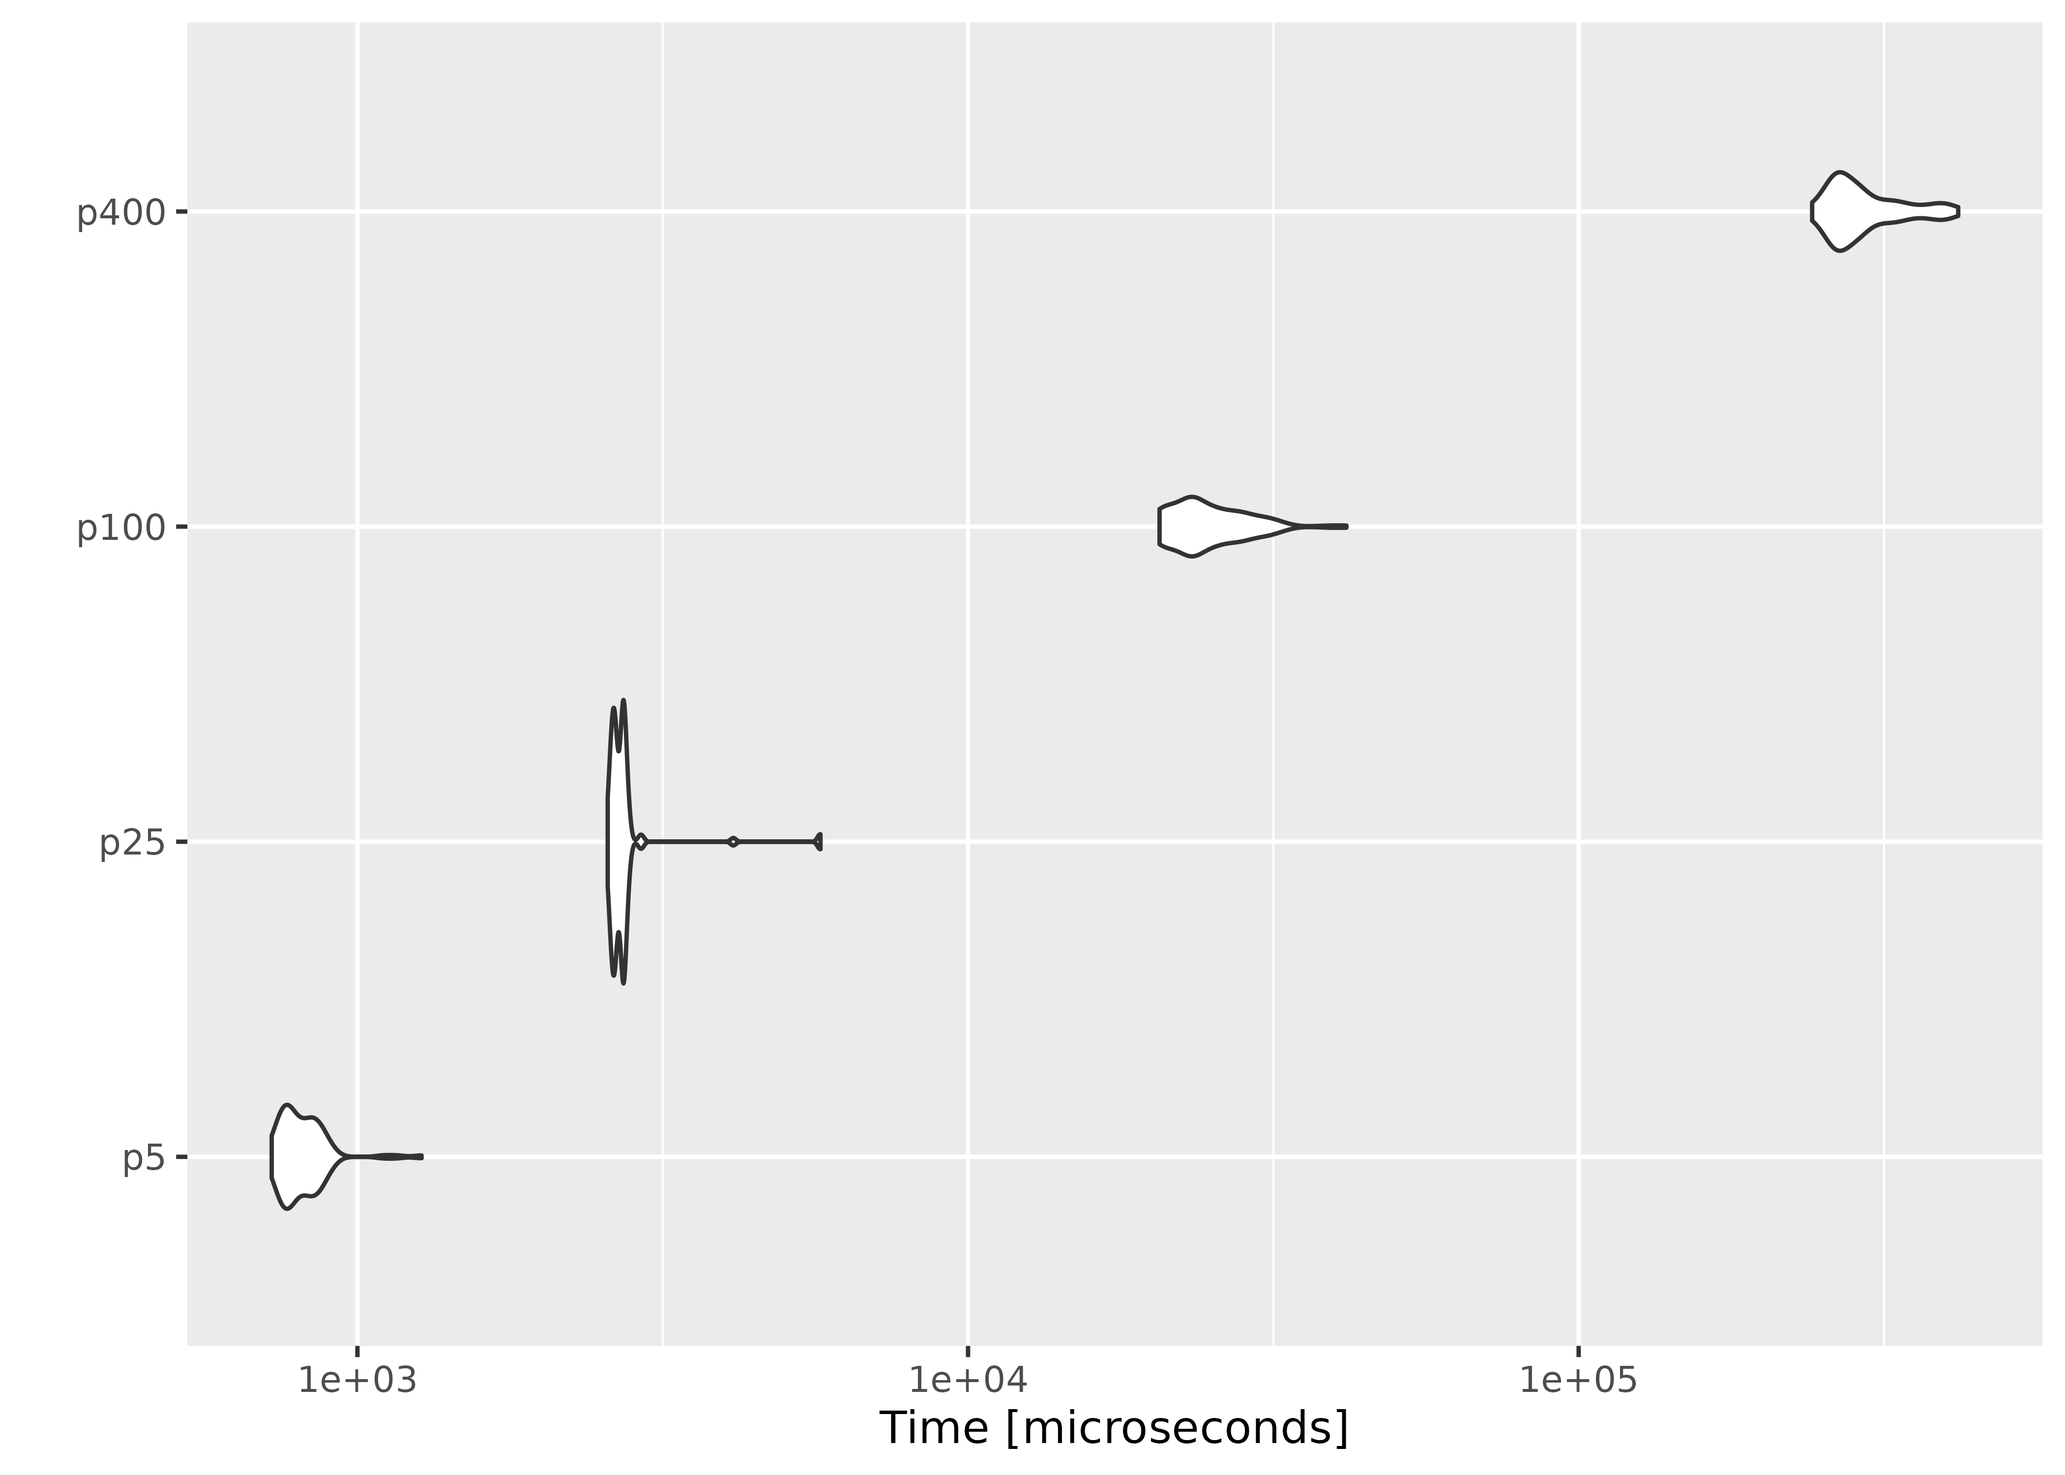
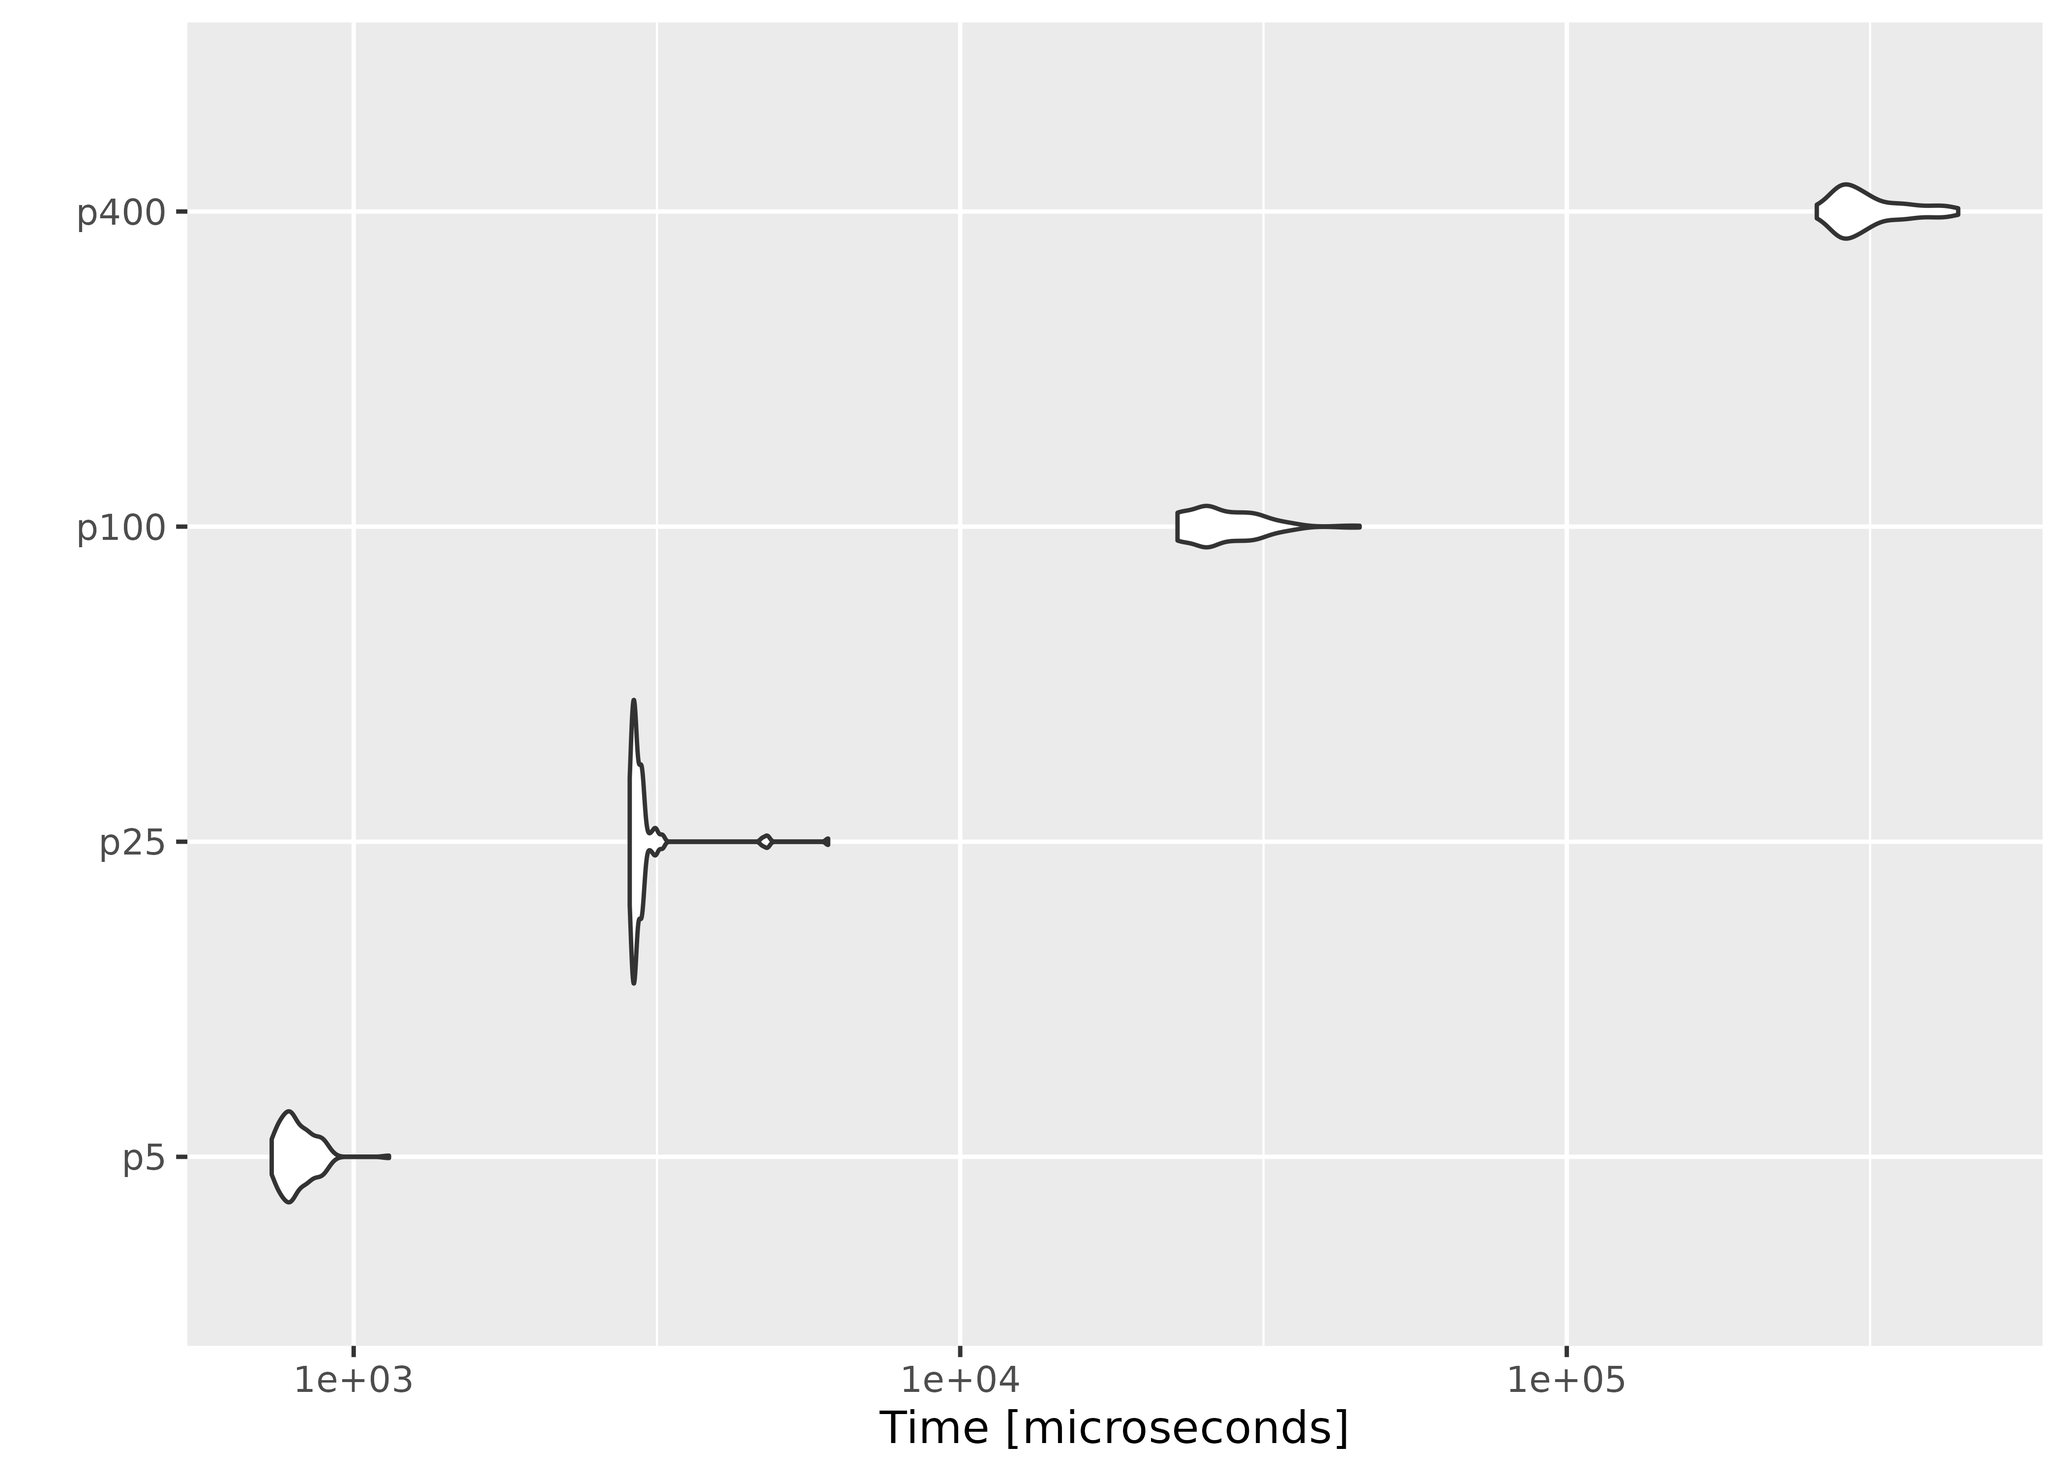
Deploying to gh-pages from @ ropensci/melt@3679fe2ed3c8fad9d4f7b4d7309542c7582e4cd7 🚀

diff --git a/LICENSE.html b/LICENSE.html
@@ -124,35 +124,35 @@
 <h3 id="how-to-apply-these-terms-to-your-new-programs">How to Apply These Terms to Your New Programs<a class="anchor" aria-label="anchor" href="#how-to-apply-these-terms-to-your-new-programs"></a></h3>
 <p>If you develop a new program, and you want it to be of the greatest possible use to the public, the best way to achieve this is to make it free software which everyone can redistribute and change under these terms.</p>
 <p>To do so, attach the following notices to the program. It is safest to attach them to the start of each source file to most effectively convey the exclusion of warranty; and each file should have at least the “copyright” line and a pointer to where the full notice is found.</p>
-<div class="sourceCode" id="cb1"><pre class="sourceCode R"><code class="sourceCode r"><span id="cb1-1"><a href="#cb1-1" aria-hidden="true" tabindex="-1"></a><span class="sc">&lt;</span>one line to give the program<span class="st">'s name and a brief idea of what it does.&gt;</span></span>
-<span id="cb1-2"><a href="#cb1-2" aria-hidden="true" tabindex="-1"></a><span class="st">Copyright (C) &lt;year&gt;  &lt;name of author&gt;</span></span>
-<span id="cb1-3"><a href="#cb1-3" aria-hidden="true" tabindex="-1"></a></span>
-<span id="cb1-4"><a href="#cb1-4" aria-hidden="true" tabindex="-1"></a><span class="st">This program is free software; you can redistribute it and/or modify</span></span>
-<span id="cb1-5"><a href="#cb1-5" aria-hidden="true" tabindex="-1"></a><span class="st">it under the terms of the GNU General Public License as published by</span></span>
-<span id="cb1-6"><a href="#cb1-6" aria-hidden="true" tabindex="-1"></a><span class="st">the Free Software Foundation; either version 2 of the License, or</span></span>
-<span id="cb1-7"><a href="#cb1-7" aria-hidden="true" tabindex="-1"></a><span class="st">(at your option) any later version.</span></span>
-<span id="cb1-8"><a href="#cb1-8" aria-hidden="true" tabindex="-1"></a></span>
-<span id="cb1-9"><a href="#cb1-9" aria-hidden="true" tabindex="-1"></a><span class="st">This program is distributed in the hope that it will be useful,</span></span>
-<span id="cb1-10"><a href="#cb1-10" aria-hidden="true" tabindex="-1"></a><span class="st">but WITHOUT ANY WARRANTY; without even the implied warranty of</span></span>
-<span id="cb1-11"><a href="#cb1-11" aria-hidden="true" tabindex="-1"></a><span class="st">MERCHANTABILITY or FITNESS FOR A PARTICULAR PURPOSE.  See the</span></span>
-<span id="cb1-12"><a href="#cb1-12" aria-hidden="true" tabindex="-1"></a><span class="st">GNU General Public License for more details.</span></span>
-<span id="cb1-13"><a href="#cb1-13" aria-hidden="true" tabindex="-1"></a></span>
-<span id="cb1-14"><a href="#cb1-14" aria-hidden="true" tabindex="-1"></a><span class="st">You should have received a copy of the GNU General Public License along</span></span>
-<span id="cb1-15"><a href="#cb1-15" aria-hidden="true" tabindex="-1"></a><span class="st">with this program; if not, write to the Free Software Foundation, Inc.,</span></span>
-<span id="cb1-16"><a href="#cb1-16" aria-hidden="true" tabindex="-1"></a><span class="st">51 Franklin Street, Fifth Floor, Boston, MA 02110-1301 USA.</span></span></code></pre></div>
+<div class="sourceCode" id="cb1"><pre class="sourceCode R"><code class="sourceCode r"><span id="cb1-1"><a href="#cb1-1" tabindex="-1"></a><span class="sc">&lt;</span>one line to give the program<span class="st">'s name and a brief idea of what it does.&gt;</span></span>
+<span id="cb1-2"><a href="#cb1-2" tabindex="-1"></a><span class="st">Copyright (C) &lt;year&gt;  &lt;name of author&gt;</span></span>
+<span id="cb1-3"><a href="#cb1-3" tabindex="-1"></a></span>
+<span id="cb1-4"><a href="#cb1-4" tabindex="-1"></a><span class="st">This program is free software; you can redistribute it and/or modify</span></span>
+<span id="cb1-5"><a href="#cb1-5" tabindex="-1"></a><span class="st">it under the terms of the GNU General Public License as published by</span></span>
+<span id="cb1-6"><a href="#cb1-6" tabindex="-1"></a><span class="st">the Free Software Foundation; either version 2 of the License, or</span></span>
+<span id="cb1-7"><a href="#cb1-7" tabindex="-1"></a><span class="st">(at your option) any later version.</span></span>
+<span id="cb1-8"><a href="#cb1-8" tabindex="-1"></a></span>
+<span id="cb1-9"><a href="#cb1-9" tabindex="-1"></a><span class="st">This program is distributed in the hope that it will be useful,</span></span>
+<span id="cb1-10"><a href="#cb1-10" tabindex="-1"></a><span class="st">but WITHOUT ANY WARRANTY; without even the implied warranty of</span></span>
+<span id="cb1-11"><a href="#cb1-11" tabindex="-1"></a><span class="st">MERCHANTABILITY or FITNESS FOR A PARTICULAR PURPOSE.  See the</span></span>
+<span id="cb1-12"><a href="#cb1-12" tabindex="-1"></a><span class="st">GNU General Public License for more details.</span></span>
+<span id="cb1-13"><a href="#cb1-13" tabindex="-1"></a></span>
+<span id="cb1-14"><a href="#cb1-14" tabindex="-1"></a><span class="st">You should have received a copy of the GNU General Public License along</span></span>
+<span id="cb1-15"><a href="#cb1-15" tabindex="-1"></a><span class="st">with this program; if not, write to the Free Software Foundation, Inc.,</span></span>
+<span id="cb1-16"><a href="#cb1-16" tabindex="-1"></a><span class="st">51 Franklin Street, Fifth Floor, Boston, MA 02110-1301 USA.</span></span></code></pre></div>
 <p>Also add information on how to contact you by electronic and paper mail.</p>
 <p>If the program is interactive, make it output a short notice like this when it starts in an interactive mode:</p>
-<div class="sourceCode" id="cb2"><pre class="sourceCode R"><code class="sourceCode r"><span id="cb2-1"><a href="#cb2-1" aria-hidden="true" tabindex="-1"></a>Gnomovision version <span class="dv">69</span>, <span class="fu">Copyright</span> (C) year name of author</span>
-<span id="cb2-2"><a href="#cb2-2" aria-hidden="true" tabindex="-1"></a>Gnomovision comes with ABSOLUTELY NO WARRANTY; <span class="cf">for</span> details type <span class="st">`</span><span class="at">show w'.</span></span>
-<span id="cb2-3"><a href="#cb2-3" aria-hidden="true" tabindex="-1"></a><span class="at">This is free software, and you are welcome to redistribute it</span></span>
-<span id="cb2-4"><a href="#cb2-4" aria-hidden="true" tabindex="-1"></a><span class="at">under certain conditions; type </span><span class="st">`</span>show c<span class="st">' for details.</span></span></code></pre></div>
+<div class="sourceCode" id="cb2"><pre class="sourceCode R"><code class="sourceCode r"><span id="cb2-1"><a href="#cb2-1" tabindex="-1"></a>Gnomovision version <span class="dv">69</span>, <span class="fu">Copyright</span> (C) year name of author</span>
+<span id="cb2-2"><a href="#cb2-2" tabindex="-1"></a>Gnomovision comes with ABSOLUTELY NO WARRANTY; <span class="cf">for</span> details type <span class="st">`</span><span class="at">show w'.</span></span>
+<span id="cb2-3"><a href="#cb2-3" tabindex="-1"></a><span class="at">This is free software, and you are welcome to redistribute it</span></span>
+<span id="cb2-4"><a href="#cb2-4" tabindex="-1"></a><span class="at">under certain conditions; type </span><span class="st">`</span>show c<span class="st">' for details.</span></span></code></pre></div>
 <p>The hypothetical commands <code>show w</code> and <code>show c</code> should show the appropriate parts of the General Public License. Of course, the commands you use may be called something other than <code>show w</code> and <code>show c</code>; they could even be mouse-clicks or menu items–whatever suits your program.</p>
 <p>You should also get your employer (if you work as a programmer) or your school, if any, to sign a “copyright disclaimer” for the program, if necessary. Here is a sample; alter the names:</p>
-<div class="sourceCode" id="cb3"><pre class="sourceCode R"><code class="sourceCode r"><span id="cb3-1"><a href="#cb3-1" aria-hidden="true" tabindex="-1"></a>Yoyodyne, Inc., hereby disclaims all copyright interest <span class="cf">in</span> the program</span>
-<span id="cb3-2"><a href="#cb3-2" aria-hidden="true" tabindex="-1"></a><span class="st">`</span><span class="at">Gnomovision' (which makes passes at compilers) written by James Hacker.</span></span>
-<span id="cb3-3"><a href="#cb3-3" aria-hidden="true" tabindex="-1"></a></span>
-<span id="cb3-4"><a href="#cb3-4" aria-hidden="true" tabindex="-1"></a><span class="at">&lt;signature of Ty Coon&gt;, 1 April 1989</span></span>
-<span id="cb3-5"><a href="#cb3-5" aria-hidden="true" tabindex="-1"></a><span class="at">Ty Coon, President of Vice</span></span></code></pre></div>
+<div class="sourceCode" id="cb3"><pre class="sourceCode R"><code class="sourceCode r"><span id="cb3-1"><a href="#cb3-1" tabindex="-1"></a>Yoyodyne, Inc., hereby disclaims all copyright interest <span class="cf">in</span> the program</span>
+<span id="cb3-2"><a href="#cb3-2" tabindex="-1"></a><span class="st">`</span><span class="at">Gnomovision' (which makes passes at compilers) written by James Hacker.</span></span>
+<span id="cb3-3"><a href="#cb3-3" tabindex="-1"></a></span>
+<span id="cb3-4"><a href="#cb3-4" tabindex="-1"></a><span class="at">&lt;signature of Ty Coon&gt;, 1 April 1989</span></span>
+<span id="cb3-5"><a href="#cb3-5" tabindex="-1"></a><span class="at">Ty Coon, President of Vice</span></span></code></pre></div>
 <p>This General Public License does not permit incorporating your program into proprietary programs. If your program is a subroutine library, you may consider it more useful to permit linking proprietary applications with the library. If this is what you want to do, use the GNU Lesser General Public License instead of this License.</p>
 </div>
 </div>

diff --git a/articles/performance.html b/articles/performance.html
@@ -138,11 +138,11 @@ parameters increases with the number of observations fixed.</p>
 <div class="sourceCode" id="cb2"><pre class="downlit sourceCode r">
 <code class="sourceCode R"><span><span class="va">result</span></span>
 <span><span class="co">#&gt; Unit: microseconds</span></span>
-<span><span class="co">#&gt;  expr        min          lq        mean     median         uq        max neval</span></span>
-<span><span class="co">#&gt;  n1e2    451.451    481.5075    519.7536    514.204    555.866    639.041   100</span></span>
-<span><span class="co">#&gt;  n1e3   1130.717   1301.1800   1407.8095   1373.059   1485.733   2589.526   100</span></span>
-<span><span class="co">#&gt;  n1e4  10047.755  11511.6785  13368.3371  13924.691  14683.274  18727.542   100</span></span>
-<span><span class="co">#&gt;  n1e5 163577.690 227577.6725 264534.0131 256825.004 315962.405 404222.004   100</span></span>
+<span><span class="co">#&gt;  expr        min         lq       mean     median          uq        max neval</span></span>
+<span><span class="co">#&gt;  n1e2    458.717    487.891    521.422    506.355    542.0915    859.734   100</span></span>
+<span><span class="co">#&gt;  n1e3   1176.566   1388.211   1503.116   1482.712   1575.0400   2419.947   100</span></span>
+<span><span class="co">#&gt;  n1e4  10931.294  12444.052  14694.943  15272.682  16128.7100  20704.045   100</span></span>
+<span><span class="co">#&gt;  n1e5 176723.474 239977.685 279774.577 267379.647 336095.6290 431258.335   100</span></span>
 <span><span class="co">#&gt;  cld</span></span>
 <span><span class="co">#&gt;  a  </span></span>
 <span><span class="co">#&gt;  a  </span></span>
@@ -179,11 +179,11 @@ likelihood at zero vectors of different sizes.</p>
 <div class="sourceCode" id="cb4"><pre class="downlit sourceCode r">
 <code class="sourceCode R"><span><span class="va">result2</span></span>
 <span><span class="co">#&gt; Unit: microseconds</span></span>
-<span><span class="co">#&gt;  expr        min         lq        mean      median         uq        max neval</span></span>
-<span><span class="co">#&gt;    p5    723.789    762.802    815.4628    796.3085    849.283   1273.694   100</span></span>
-<span><span class="co">#&gt;   p25   2569.698   2629.164   2757.3182   2686.9725   2731.260   5732.193   100</span></span>
-<span><span class="co">#&gt;  p100  20588.780  22921.643  25033.0736  23365.4750  27458.533  41659.498   100</span></span>
-<span><span class="co">#&gt;  p400 241209.979 264348.865 295946.5628 285477.8875 316168.554 418412.821   100</span></span>
+<span><span class="co">#&gt;  expr        min         lq        mean     median          uq        max neval</span></span>
+<span><span class="co">#&gt;    p5    732.607    766.361    808.9106    792.048    836.5615   1143.645   100</span></span>
+<span><span class="co">#&gt;   p25   2851.803   2889.599   3030.5725   2914.735   2985.4530   6057.166   100</span></span>
+<span><span class="co">#&gt;  p100  22815.616  25342.844  27431.1507  25584.264  30402.7685  45553.789   100</span></span>
+<span><span class="co">#&gt;  p400 258339.914 283552.640 316939.1498 305670.769 343781.9415 441934.763   100</span></span>
 <span><span class="co">#&gt;  cld</span></span>
 <span><span class="co">#&gt;  a  </span></span>
 <span><span class="co">#&gt;  a  </span></span>

diff --git a/articles/usage.html b/articles/usage.html
@@ -105,9 +105,10 @@ Kim</h4>
     
 <p>This vignette demonstrates the basic usage of the melt package,
 including replication code from a paper by <span class="citation">Kim,
-MacEachern, and Peruggia (<a href="#ref-kim2024melt" role="doc-biblioref">2024</a>)</span> published in the <em>Journal of
-Statistical Software</em>. For more details on the package and its
-applications, readers are encouraged to refer to the paper.</p>
+MacEachern, and Peruggia (<a href="#ref-kim2024melt">2024</a>)</span>
+published in the <em>Journal of Statistical Software</em>. For more
+details on the package and its applications, readers are encouraged to
+refer to the paper.</p>
 <div class="section level2">
 <h2 id="model-building">Model building<a class="anchor" aria-label="anchor" href="#model-building"></a>
 </h2>
@@ -452,9 +453,9 @@ accepts <code>list</code> objects for <code>rhs</code> and
 multivariate chi-square calibration technique based on Monte Carlo
 simulations to determine the common critical value. Details of multiple
 testing procedures are provided in <span class="citation">Kim,
-MacEachern, and Peruggia (<a href="#ref-kim2023empirical" role="doc-biblioref">2023</a>)</span>. Continuing on the previous test
-result, we perform comparisons with the control with the overall
-significance level at 0.05.</p>
+MacEachern, and Peruggia (<a href="#ref-kim2023empirical">2023</a>)</span>. Continuing on the
+previous test result, we perform comparisons with the control with the
+overall significance level at 0.05.</p>
 <div class="sourceCode" id="cb13"><pre class="downlit sourceCode r">
 <code class="sourceCode R"><span><span class="va">elmt_glm</span> <span class="op">&lt;-</span> <span class="fu"><a href="../reference/elmt.html">elmt</a></span><span class="op">(</span><span class="va">fit_glm</span>, lhs <span class="op">=</span> <span class="fu"><a href="https://rdrr.io/r/base/list.html" class="external-link">list</a></span><span class="op">(</span><span class="st">"trtSpray"</span>, <span class="st">"trtFurrow"</span>, <span class="st">"trtSeed"</span><span class="op">)</span><span class="op">)</span></span>
 <span><span class="fu"><a href="../reference/summary.html">summary</a></span><span class="op">(</span><span class="va">elmt_glm</span><span class="op">)</span></span>
@@ -492,7 +493,7 @@ common critical value computed by <code><a href="../reference/elmt.html">elmt()<
 <div class="section level2 unnumbered">
 <h2 class="unnumbered" id="references">References<a class="anchor" aria-label="anchor" href="#references"></a>
 </h2>
-<div id="refs" class="references csl-bib-body hanging-indent">
+<div id="refs" class="references csl-bib-body hanging-indent" entry-spacing="0">
 <div id="ref-kim2023empirical" class="csl-entry">
 Kim, Eunseop, Steven N. MacEachern, and Mario Peruggia. 2023.
 <span>“Empirical Likelihood for the Analysis of Experimental
